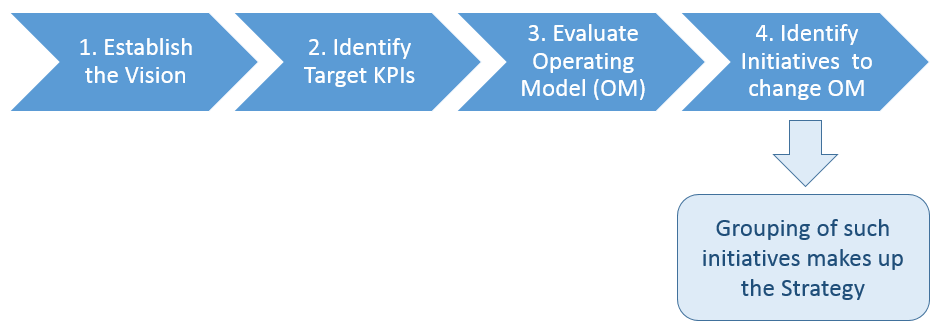
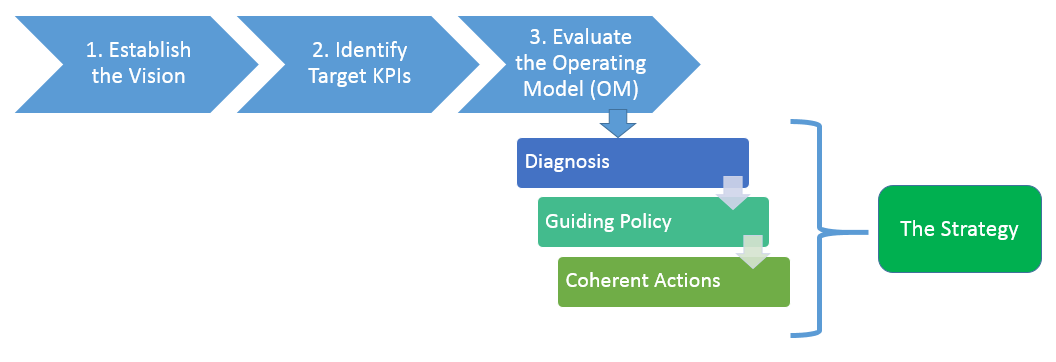
changes to approach, following diagnosis, guiding policy, and coherent actions

diff --git a/ReferenceMaterials/ApproachToStrategy.md b/ReferenceMaterials/ApproachToStrategy.md
@@ -6,6 +6,8 @@ The following is a proposed approach on producing the IT Strategy. It takes as p
 
 ## The approach
 
+the approach here in is based on the book [Good Strategy, Bad Strategy](http://goodbadstrategy.com/about-the-book/). In the book, a good strategy has a basic underlying logic: coherent action backed up by an argument, an effective mixture of thought and action. 
+
 ![Approach to Strategy making](img/StrategyMakingApproach.png)
 
 ### 1. Establish the Vision
@@ -16,37 +18,43 @@ If we can bring ourselves 10 years in the future, how will ESDC Services be prov
 What KPIs is required by IITB to provide services needed to support the vision?
 
 E.g.:
+* Number of services ESDC provides that are consumed via APIs by the public/industry
 * Number of services ESDC provides that are hosted on the GC API Store
-* Number of services ESDC provides that are consumed by the public/industry
 * Number of projects IITB can take on per year
-* Number of services IITB provides that are digital in nature
+* Number of services IITB provides that are digital in nature 
 * Number of API Product Owners
 * Turnaround time of system changes
 * Reliability uptime of core systems
 * other?
 
 
-### 3. Evaluate Operating Model (OM)
+### 3. Evaluate the Operating Model (OM)
 An organization is a complex system for delivering value. An [operating model](https://en.wikipedia.org/wiki/Operating_model) breaks this system into components, showing how it works. It can help different participants understand the whole. It can help leaders identify problems that are causing under performance.
 
 For the IT Strategy, the operating model will be IITB's.
 
-We will need to evaluate the operating model in terms of Target State.
-
-**Operating Model vs Capability Model** (what is the difference? and what is the relationship with Enterprise Architecture?)
-
-E.g.:
-* Project Governance
-* Software Development LifeCycle
-* Standards governance
-* Assessment-based 
-
-### 4. Identify initiatives to change OM
-
-With the Operating Model evaluated at the Target State, this fourth step will identify individual initiatives that IITB must commit to in order to change the current operating model to the target one.
+We will need to evaluate the operating model in terms of Target State. This evaluation is performed using the following three setps: 
+1. **Diagnosis**: defines and explains the nature of the challenge. What is preventing IITB from achieving its vision?
+2. **Guiding-policy**: outlines an overall approach for overcoming the obstacles highlighted by the diagnosis. It channels action in certain directions without defining exactly what shall be done
+3. **Coherent-actions**: dictates how the guiding policy will be carried out. The actions should be coherent, meaning the use of resources, policies, and maneuvers that are undertaken should be coordinated and support each other (not fight each other, or be independent from one another).
 
 E.g.:
-* Implement Bi-Modal Governance
-* Move from Project Management to Product Management
-* Adopt DevOps
-* Monitor-based
+* Diagnosis on project governance. Guiding policy on moving towards product management. Coherent actions on organization design, team constitution, release management, financial management. 
+* Diagnosis on Software Development LifeCycle. Guiding policy on moving towards DevOps. Coherent actions on automation of testing, building, deployment, relationship with business owners, moving from IT Security assessments to IT Security coaching
+* Diagnosis on Standards governance taking too long to adopt new standards. Guiding policy on standards enabling technology XYZ. Coherent actions on standard recognition processes, stewardship, participation by the community
+
+## What consistitutes the Strategy
+
+The above evaluation of the operating model will constitute the Strategy. The Strategy is the combination of the diagnosis, the guiding policy, and the set of coherent actions.
+
+Going back to the definition of a strategy:
+
+* A **good** strategy is a set of coherent actions (initiatives IITB must commit to)
+	* backed up by an argument (the diagnosis), 
+		* an effective mixture of thought and action (the guiding policy)
+
+
+E.g.:
+* Implement Bi-Modal Governance, because IITB manages risks the same way for all initiatives which impedes innovation, which will require IITB to set guardrails on mode 1 and mode 2 governance, as well as ...
+* Move from Project Management to Product Management, because project does not provide funding for ongoing sustainability (maintenance and evolution), which will require IITB to implement financial model XYZ, change organization structure to build right teams
+* Adopt DevOps, because IITB's pace of change is too slow to keep up with demand, which will require IITB to reorganize ites team constitution, automate all of its software processes, and build relationships with business owners
